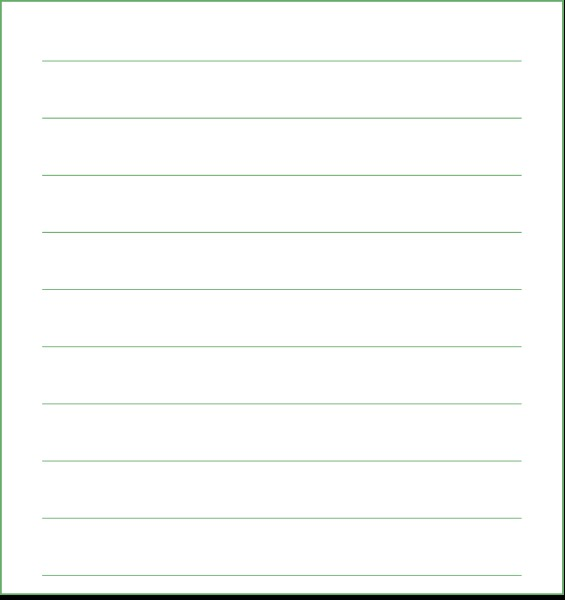
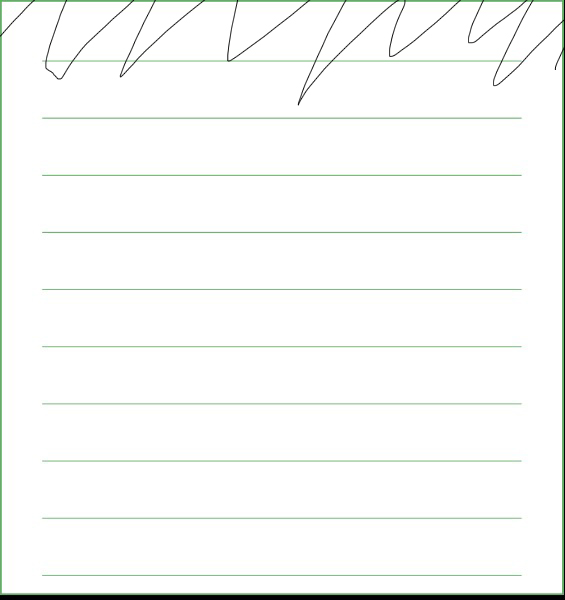
手紙を選ぶページに保存した手紙の一行目を反映できるようにしました。

diff --git a/green-letter/choose/index.html b/green-letter/choose/index.html
@@ -5,7 +5,6 @@
   <meta charset="UTF-8">
   <meta name="viewport" content="width=device-width, initial-scale=1.0">
   <meta http-equiv="X-UA-Compatible" content="ie=edge">
-  <script src="https://cdnjs.cloudflare.com/ajax/libs/axios/0.19.0/axios.js"></script>
   <link rel="stylesheet" type="text/css" href="../common/ress.min.css">
   <link rel="stylesheet" type="text/css" href="style.css">
   <link href="https://fonts.googleapis.com/css?family=Sawarabi+Mincho&display=swap" rel="stylesheet">
@@ -32,65 +31,11 @@
       </a>
     </div>
   </div><!--/header-->
-
-  <div >
-    <!-- test -->
-    <div>
-      <p id="test"></p>
-      <img src="img/empty-frame.png"
-              class="green-frame frame1"
-              alt="" />
-      <script>
-        
-      </script>
+    <div id="test"
+         class="green-frame">
     </div>
-    <!-- /test -->
-    <a href="../see/index.html">
-      <img src="img/frame2.png" 
-            class="green-frame"/>
-    </a>
-    <a href="../see/index.html">
-      <img src="img/frame3.png" 
-            class="green-frame"/>
-    </a>
-    <a href="../see/index.html">
-      <img src="img/frame4.png" 
-            class="green-frame"/>
-    </a>
-    <a href="../see/index.html">
-        <img src="img/frame1.png" 
-              class="green-frame"/>
-      </a>
-      <a href="../see/index.html">
-        <img src="img/frame2.png" 
-              class="green-frame"/>
-      </a>
-      <a href="../see/index.html">
-        <img src="img/frame3.png" 
-              class="green-frame"/>
-      </a>
-      <a href="../see/index.html">
-        <img src="img/frame4.png" 
-              class="green-frame"/>
-      </a>
-      <a href="../see/index.html">
-          <img src="img/frame1.png" 
-                class="green-frame"/>
-      </a>
-      <a href="../see/index.html">
-        <img src="img/frame2.png" 
-              class="green-frame"/>
-      </a>
-      <a href="../see/index.html">
-        <img src="img/frame3.png" 
-              class="green-frame"/>
-      </a>
-      <a href="../see/index.html">
-        <img src="img/frame4.png" 
-              class="green-frame"/>
-      </a>
-  </div>
   <p class="watch"><a href="#">もっと見る</a></p>
 </body>
+<script src="https://cdnjs.cloudflare.com/ajax/libs/axios/0.19.0/axios.js"></script>
 <script type="text/javascript" src="js/main.js"></script>
 </html>

diff --git a/green-letter/choose/js/main.js b/green-letter/choose/js/main.js
@@ -4,13 +4,25 @@ axios.get('/api/get_letter.php')
 .then(function (response) {
 // データの送信に成功したときの処理をここに書く
     console.log(response);
-    console.log(response.data[0].img);
+    // console.log(response.data[i].img);
     var el = document.getElementById("test");
+    let html = '';
+    for (var i = 0; i < response.data.length; i++) {
+        console.log(response.data[i]);
+        html += `
+        <a href="../see?id=1/">
+        <div class="cut">
+            <img src="/../../api/${response.data[i].img}.jpeg"
+                 class="first-line" />
+        </div>
+        <img src="img/empty-frame.png"
+              class="green-frame"
+              alt="" />
+    </a>
+    `;
+ }
     el.innerHTML = `
-    <div>
-        <p>${response.data[0].img}</p>
-        <img src=${response.data[0].img} />
-    </div>
+    <div>${html}</div>
     `;
 })
 .catch(function (error) {
@@ -18,3 +30,4 @@ axios.get('/api/get_letter.php')
     console.log(error);
 });
 console.log(axios);
+// console.log(html);

diff --git a/green-letter/choose/style.css b/green-letter/choose/style.css
@@ -17,6 +17,7 @@
   position: fixed;
   width: 100%;
   top: 0
+  z-index: 3;
 }
   .header-Heading {
     width: 350px;
@@ -40,26 +41,35 @@
 .green-frame {
     width: 98%;
     padding:5px;
+    z-index: 1;
 }
-.frame1 {
-  /* margin-top: 90px; */
-  margin-top: 0px;
+.test {
+  padding-top: 90px;
 }
+.first-line {
+  z-index: 2;
+}
+
 .watch {
     font-size: 20pt;
     padding: 30px 0px;
+}
+
+/* 画像を切り取る */
+div.cut img {
+  position: absolute;
+  clip: rect(3px, 561px, 59px, 3px);
+}
+div.cut {
+  width: 310px;
+  bottom: -20px;
+  position: relative;
 }
 
 /* test */
 .letter-container-inner {
   position: relative;
 }
-/* .first-line{
-  width:90px;
-  position: absolute;
-  right: 30px;
-  bottom: 30px;
-} */
 
 p {
   margin-top: 100px;

diff --git a/green-letter/see/js/main.js b/green-letter/see/js/main.js
@@ -1,0 +1,22 @@
+// データを取得する
+
+axios.get('/api/get_letter.php')
+.then(function (response) {
+// データの送信に成功したときの処理をここに書く
+    console.log(response);
+    console.log(response.data[0].img);
+    var el = document.getElementById("test");
+    el.innerHTML = `
+    <div>
+        <p>${response.data[0].img}</p>
+        <a href="../see?id=1/">
+            <img src="/../../api/${response.data[0].img}.jpeg" />
+        </a>
+    </div>
+    `;
+})
+.catch(function (error) {
+// データの送信に失敗したときの処理をここに書く
+    console.log(error);
+});
+console.log(axios);

diff --git a/green-letter/see/index.html b/green-letter/see/index.html
@@ -49,6 +49,7 @@
             </div>
             <div class="green2">
               <p class="double-space">手紙内容</p>
+              <!-- <div id="test"></div> -->
               <img src="img/hello.png" class="hello">
             </div>
           </div>
@@ -71,4 +72,6 @@
           </a>
     </div>
     </body>
+    <script src="https://cdnjs.cloudflare.com/ajax/libs/axios/0.19.0/axios.js"></script>
+    <script type="text/javascript" src="js/main.js"></script>
 </html>
